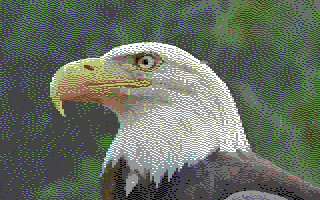
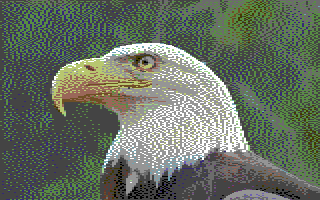
Float-ok használata integer-ek helyett, több különböző model bevezetése, méretezés javítások

diff --git a/c64_dithering.py b/c64_dithering.py
@@ -1,28 +1,133 @@
 import argparse
 
 import cv2
+import numpy as np
 
-W1 = 7 / 16.0
-W2 = 3 / 16.0
-W3 = 5 / 16.0
-W4 = 1 / 16.0
+FLOYD_STEINBERG = {
+    "weight": 1.0 / 16.0,
+    "pattern": [
+        (0, 1, 7.0),
+        (1, -1, 3.0),
+        (1, 0, 5.0),
+        (1, 1, 1.0),
+    ]
+}
 
-BLACK = (0, 0, 0)
-WHITE = (255, 255, 255)
-RED = (43, 55, 104)
-CYAN = (178, 164, 112)
-PURPLE = (134, 61, 111)
-GREEN = (67, 141, 88)
-BLUE = (121, 40, 53)
-YELLOW = (111, 199, 184)
-ORANGE = (37, 79, 111)
-BROWN = (0, 57, 67)
-LIGHT_RED = (89, 103, 154)
-DARK_GREY = (68, 68, 68)
-GREY = (108, 108, 108)
-LIGHT_GREEN = (132, 210, 154)
-LIGHT_BLUE = (181, 94, 108)
-LIGHT_GREY = (149, 149, 149)
+JARVIS_JUDICE_NINKE = {
+    "weight": 1.0 / 48.0,
+    "pattern": [
+        (0, 1, 7.0),
+        (0, 2, 5.0),
+        (1, -2, 3.0),
+        (1, -1, 5.0),
+        (1, 0, 7.0),
+        (1, 1, 5.0),
+        (1, 2, 3.0),
+        (2, -2, 1.0),
+        (2, -1, 3.0),
+        (2, 0, 5.0),
+        (2, 1, 3.0),
+        (2, 2, 1.0)
+    ]
+}
+
+STUCKI = {
+    "weight": 1.0 / 42.0,
+    "pattern": [
+        (0, 1, 8.0),
+        (0, 2, 4.0),
+        (1, -2, 2.0),
+        (1, -1, 4.0),
+        (1, 0, 8.0),
+        (1, 1, 4.0),
+        (1, 2, 2.0),
+        (2, -2, 1.0),
+        (2, -1, 2.0),
+        (2, 0, 4.0),
+        (2, 1, 2.0),
+        (2, 2, 1.0)
+    ]
+}
+
+ATKINSON = {
+    "weight": 1.0 / 8.0,
+    "pattern": [
+        (0, 1, 1.0),
+        (0, 2, 1.0),
+        (1, -1, 1.0),
+        (1, 0, 1.0),
+        (1, 1, 1.0),
+        (2, 0, 1.0)
+    ]
+}
+
+BURKES = {
+    "weight": 1.0 / 32.0,
+    "pattern": [
+        (0, 1, 8.0),
+        (0, 2, 4.0),
+        (1, -2, 2.0),
+        (1, -1, 4.0),
+        (1, 0, 8.0),
+        (1, 1, 4.0),
+        (1, 2, 2.0)
+    ]
+}
+
+SIERRA = {
+    "weight": 1.0 / 32.0,
+    "pattern": [
+        (0, 1, 5.0),
+        (0, 2, 3.0),
+        (1, -2, 2.0),
+        (1, -1, 4.0),
+        (1, 0, 5.0),
+        (1, 1, 4.0),
+        (1, 2, 2.0),
+        (2, -1, 2.0),
+        (2, 0, 3.0),
+        (2, 1, 2.0)
+    ]
+}
+
+TWO_ROW_SIERRA = {
+    "weight": 1.0 / 16.0,
+    "pattern": [
+        (0, 1, 4.0),
+        (0, 2, 3.0),
+        (1, -2, 1.0),
+        (1, -1, 2.0),
+        (1, 0, 3.0),
+        (1, 1, 2.0),
+        (1, 2, 1.0)
+    ]
+}
+
+SIERRA_LITE = {
+    "weight": 1.0 / 4.0,
+    "pattern": [
+        (0, 1, 2.0),
+        (1, -1, 1.0),
+        (1, 0, 1.0)
+    ]
+}
+
+BLACK = (0.0, 0.0, 0.0)
+WHITE = (255.0, 255.0, 255.0)
+RED = (43.0, 55.0, 104.0)
+CYAN = (178.0, 164.0, 112.0)
+PURPLE = (134.0, 61.0, 111.0)
+GREEN = (67.0, 141.0, 88.0)
+BLUE = (121.0, 40.0, 53.0)
+YELLOW = (111.0, 199.0, 184.0)
+ORANGE = (37.0, 79.0, 111.0)
+BROWN = (0.0, 57.0, 67.0)
+LIGHT_RED = (89.0, 103.0, 154.0)
+DARK_GREY = (68.0, 68.0, 68.0)
+GREY = (108.0, 108.0, 108.0)
+LIGHT_GREEN = (132.0, 210.0, 154.0)
+LIGHT_BLUE = (181.0, 94.0, 108.0)
+LIGHT_GREY = (149.0, 149.0, 149.0)
 
 COLORS = [BLACK, WHITE, RED, CYAN,
           PURPLE, GREEN, BLUE, YELLOW,
@@ -35,34 +140,34 @@ color2_map = []
 
 def init_colors():
     print("Initialize colors #1")
-    for x in range(40):
-        col = []
-        for y in range(25):
-            col.append(COLORS)
-        color_map.append(col)
+    for y in range(25):
+        row = []
+        for x in range(40):
+            row.append(COLORS)
+        color_map.append(row)
 
 
-def get_nearest_color(colors, bgr: (int, int, int)):
+def get_nearest_color(colors, bgr: (float, float, float)):
     (bs, gs, rs) = bgr
     pd = None
     (bt, gt, rt) = (0, 0, 0)
     (be, ge, re) = (0, 0, 0)
     for color in colors:
         (bc, gc, rc) = color
-        d = pow((int(bs) - int(bc)), 2) + pow((int(gs) - int(gc)), 2) + pow((int(rs) - int(rc)), 2)
+        d = pow(bs - bc, 2) + pow(gs - gc, 2) + pow(rs - rc, 2)
         if pd is None or pd > d:
             (bt, gt, rt) = color
-            (be, ge, re) = (int(bs) - int(bt), int(gs) - int(gt), int(rs) - int(rt))
+            (be, ge, re) = (bs - bt, gs - gt, rs - rt)
             pd = d
     return (bt, gt, rt), (be, ge, re)
 
 
 def init_colors2(background, dithered1):
     print("Initialize colors #2")
-    for cx in range(40):
-        col = []
-        color2_map.append(col)
-        for cy in range(25):
+    for cy in range(25):
+        row = []
+        color2_map.append(row)
+        for cx in range(40):
             colors = {}
             for xx in range(4):
                 for yy in range(8):
@@ -79,14 +184,14 @@ def init_colors2(background, dithered1):
             cl = [background]
             cl.extend(color_list)
             color_list = cl[:4]
-            col.append(color_list)
+            row.append(color_list)
 
 
 def get_background_color(orig, dithered):
     print("Get background colors: ", end="")
     colors = {}
-    for cx in range(160):
-        for cy in range(200):
+    for cy in range(200):
+        for cx in range(160):
             c = tuple(dithered[cy, cx])
             if c in colors:
                 colors[c] += 1
@@ -103,28 +208,37 @@ def add_error(color, error, weight):
     (bc, gc, rc) = color
     (be, ge, re) = error
     return (
-        min(max(bc + be * weight, 0), 255),
-        min(max(gc + ge * weight, 0), 255),
-        min(max(rc + re * weight, 0), 255)
+        min(max(bc + be * weight, 0.0), 255.0),
+        min(max(gc + ge * weight, 0.0), 255.0),
+        min(max(rc + re * weight, 0.0), 255.0)
     )
 
 
-def dithering(cm, image, p):
+def dithering2(model, cm, image, p):
     print(f"Dithering pass #{p} ", end="")
     dithered = image.copy()
-    for x in range(161):
-        if (x % 20) == 0:
+    for y in range(200):
+        if (y % 20) == 0:
             print(".", end='')
-        for y in range(201):
-            colors = cm[int(max(x - 1, 0) / 4)][int(max(y - 1, 0) / 8)]
-            (new_pixel, error) = get_nearest_color(colors, dithered[y, x])
-            dithered[y, x] = new_pixel
-            dithered[y + 1, x] = add_error(dithered[y + 1, x], error, W1)
-            dithered[y - 1, x + 1] = add_error(dithered[y - 1, x + 1], error, W2)
-            dithered[y, x + 1] = add_error(dithered[y, x + 1], error, W3)
-            dithered[y + 1, x + 1] = add_error(dithered[y + 1, x + 1], error, W4)
+        if (y % 2) == 0:
+            for x in range(160):
+                colors = cm[int(max(y, 0) / 8)][int(max(x, 0) / 4)]
+                (new_pixel, error) = get_nearest_color(colors, dithered[y, x])
+                dithered[y, x] = new_pixel
+                w0 = model["weight"]
+                for (dy, dx, w) in model.get("pattern"):
+                    if -1 < (x + dx) < 160 and -1 < (y + dy) < 200:
+                        dithered[y + dy, x + dx] = add_error(dithered[y + dy, x + dx], error, w0 * w)
+        else:
+            for x in range(159, -1, -1):
+                colors = cm[int(max(y, 0) / 8)][int(max(x, 0) / 4)]
+                (new_pixel, error) = get_nearest_color(colors, dithered[y, x])
+                dithered[y, x] = new_pixel
+                w0 = model["weight"]
+                for (dy, dx, w) in model.get("pattern"):
+                    if -1 < (x - dx) < 160 and -1 < (y + dy) < 200:
+                        dithered[y + dy, x - dx] = add_error(dithered[y + dy, x - dx], error, w0 * w)
 
-    dithered = dithered[1:201, 1:161]
     print("")
     return dithered
 
@@ -160,6 +274,9 @@ def save_kla(kla_name, background, dithered):
                             colors[c] = 1
 
             if len(colors) > 3:
+                print(cx)
+                print(cy)
+                print(colors)
                 raise ValueError("Color constraint error.")
 
             colors = dict(sorted(colors.items(), key=lambda item: item[1], reverse=True))
@@ -194,17 +311,18 @@ def save_kla(kla_name, background, dithered):
 def convert(inputfile, outputfile, klaname):
     print(f"Read file: {inputfile}")
     image = cv2.imread(inputfile)
-    resized_image = cv2.resize(image, (162, 202), interpolation=cv2.INTER_LANCZOS4)
+    resized_image = cv2.resize(image, (160, 200), interpolation=cv2.INTER_LANCZOS4)
+    resized_image = resized_image.astype(np.float32)
 
     init_colors()
 
-    dithered1 = dithering(color_map, resized_image, 1)
+    dithered1 = dithering2(SIERRA, color_map, resized_image, 1)
 
     background = get_background_color(resized_image, dithered1)
 
     init_colors2(background, dithered1)
 
-    dithered2 = dithering(color2_map, resized_image, 2)
+    dithered2 = dithering2(SIERRA, color2_map, resized_image, 2)
 
     resized_dithered = cv2.resize(dithered2, (320, 200), interpolation=cv2.INTER_NEAREST)
 
